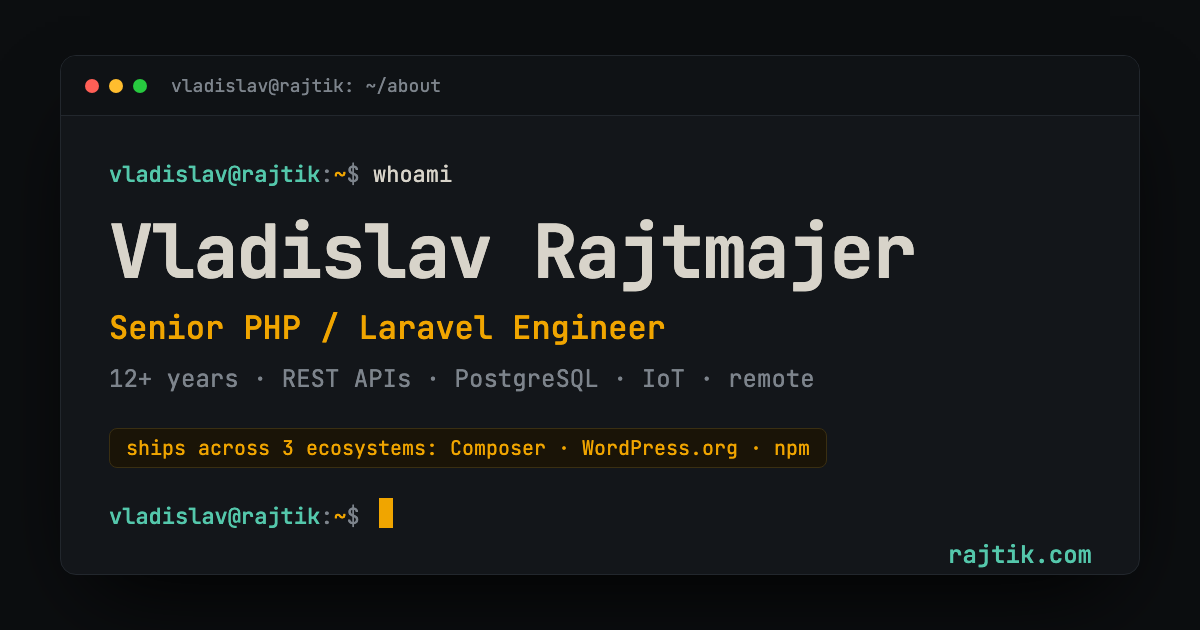
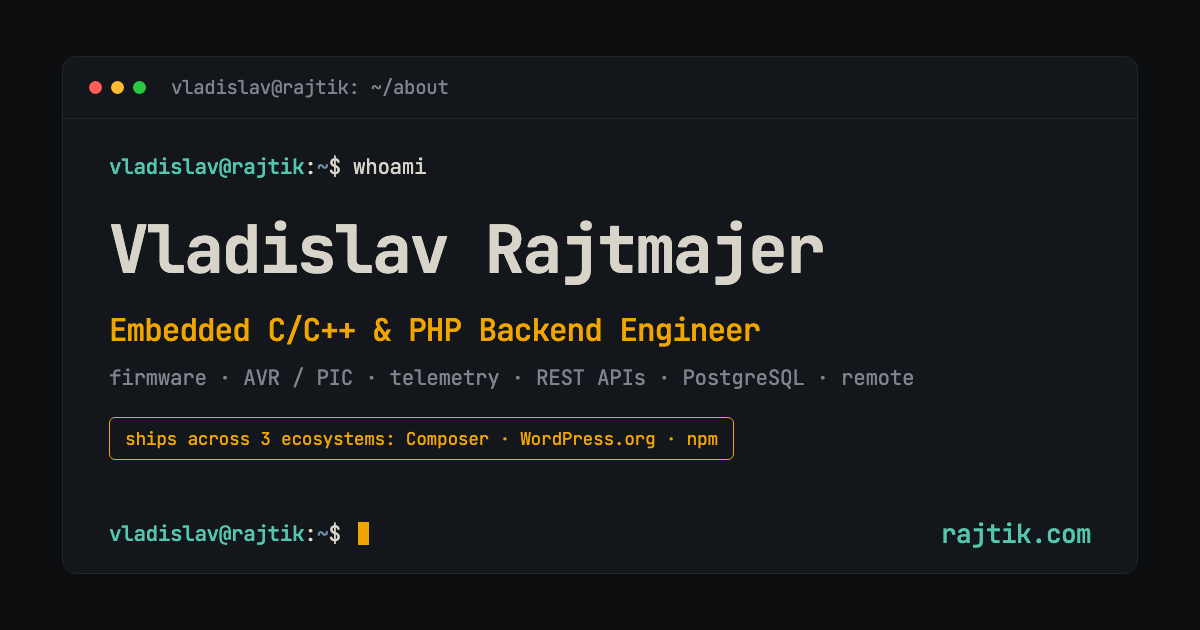
feat: rebuild the social card for the embedded positioning
og.png still read "Senior PHP / Laravel Engineer", so every link preview
kept advertising the old positioning while the page itself led with
embedded.

Rebuild it from og-src/og.html via scripts/build-og.sh, so the card has a
source that can be edited and re-rendered instead of being an opaque
binary nobody dares touch. Same terminal look and palette as the homepage.

Claude-Session: https://claude.ai/code/session_01YVUXsqguu8CLq3hx3DhH1r

diff --git a/og-src/og.html b/og-src/og.html
@@ -1,0 +1,98 @@
+<!doctype html>
+<html lang="en">
+<head>
+<meta charset="utf-8" />
+<title>og</title>
+<link rel="preconnect" href="https://fonts.googleapis.com" />
+<link rel="preconnect" href="https://fonts.gstatic.com" crossorigin />
+<link href="https://fonts.googleapis.com/css2?family=JetBrains+Mono:wght@400;500;700&display=swap" rel="stylesheet" />
+<style>
+  /* Social card, 1200x630. Mirrors the terminal look of the homepage -
+     keep the palette in sync with src/pages/index.astro. */
+  :root{
+    --bg:#0c0e10; --panel:#13161a; --fg:#d8d4ca; --dim:#7d848c;
+    --amber:#f0a500; --teal:#54c7ab; --line:#22272d;
+  }
+  *{ box-sizing:border-box; margin:0; padding:0; }
+  html,body{ width:1200px; height:630px; overflow:hidden; }
+  body{
+    background:var(--bg);
+    font-family:"JetBrains Mono",ui-monospace,Menlo,monospace;
+    color:var(--fg);
+    display:flex; align-items:center; justify-content:center;
+  }
+
+  .term{
+    width:1076px; height:518px;
+    background:var(--panel);
+    border:1px solid var(--line);
+    border-radius:14px;
+    overflow:hidden;
+    display:flex; flex-direction:column;
+  }
+
+  .bar{
+    height:62px; flex:none;
+    display:flex; align-items:center; gap:9px;
+    padding:0 26px;
+    border-bottom:1px solid var(--line);
+  }
+  .dot{ width:13px; height:13px; border-radius:50%; }
+  .r{ background:#ff5f57 } .y{ background:#febc2e } .g{ background:#28c840 }
+  .path{ margin-left:16px; color:var(--dim); font-size:19px; letter-spacing:-.3px; }
+
+  .body{ flex:1; padding:34px 46px 0; position:relative; }
+
+  .pr{ font-size:21px; letter-spacing:-.4px; }
+  .pr b{ color:var(--teal); font-weight:500; }
+  .tilde{ color:#6f8fa8 }
+  .cmd{ color:var(--fg) }
+
+  h1{
+    font-size:66px; font-weight:700; letter-spacing:-2px;
+    margin:26px 0 16px; white-space:nowrap;
+  }
+  .role{ color:var(--amber); font-size:31px; font-weight:500; letter-spacing:-1px; }
+  .meta{ color:var(--dim); font-size:21px; margin-top:14px; letter-spacing:-.4px; }
+
+  .badge{
+    display:inline-block; margin-top:26px;
+    border:1px solid var(--amber); border-radius:6px;
+    padding:9px 15px; color:var(--amber);
+    font-size:18px; letter-spacing:-.4px;
+  }
+
+  .foot{
+    position:absolute; left:46px; right:46px; bottom:22px;
+    display:flex; align-items:center; justify-content:space-between;
+  }
+  .cursor{
+    display:inline-block; width:11px; height:23px;
+    background:var(--amber); vertical-align:-4px; margin-left:5px;
+  }
+  .site{ color:var(--teal); font-size:26px; font-weight:500; letter-spacing:-.6px; }
+</style>
+</head>
+<body>
+  <div class="term">
+    <div class="bar">
+      <span class="dot r"></span><span class="dot y"></span><span class="dot g"></span>
+      <span class="path">vladislav@rajtik: ~/about</span>
+    </div>
+    <div class="body">
+      <p class="pr"><b>vladislav@rajtik</b>:<span class="tilde">~</span>$ <span class="cmd">whoami</span></p>
+
+      <h1>Vladislav Rajtmajer</h1>
+      <p class="role">Embedded C/C++ &amp; PHP Backend Engineer</p>
+      <p class="meta">firmware · AVR / PIC · telemetry · REST APIs · PostgreSQL · remote</p>
+
+      <span class="badge">ships across 3 ecosystems: Composer · WordPress.org · npm</span>
+
+      <div class="foot">
+        <span class="pr"><b>vladislav@rajtik</b>:<span class="tilde">~</span>$ <span class="cursor"></span></span>
+        <span class="site">rajtik.com</span>
+      </div>
+    </div>
+  </div>
+</body>
+</html>
